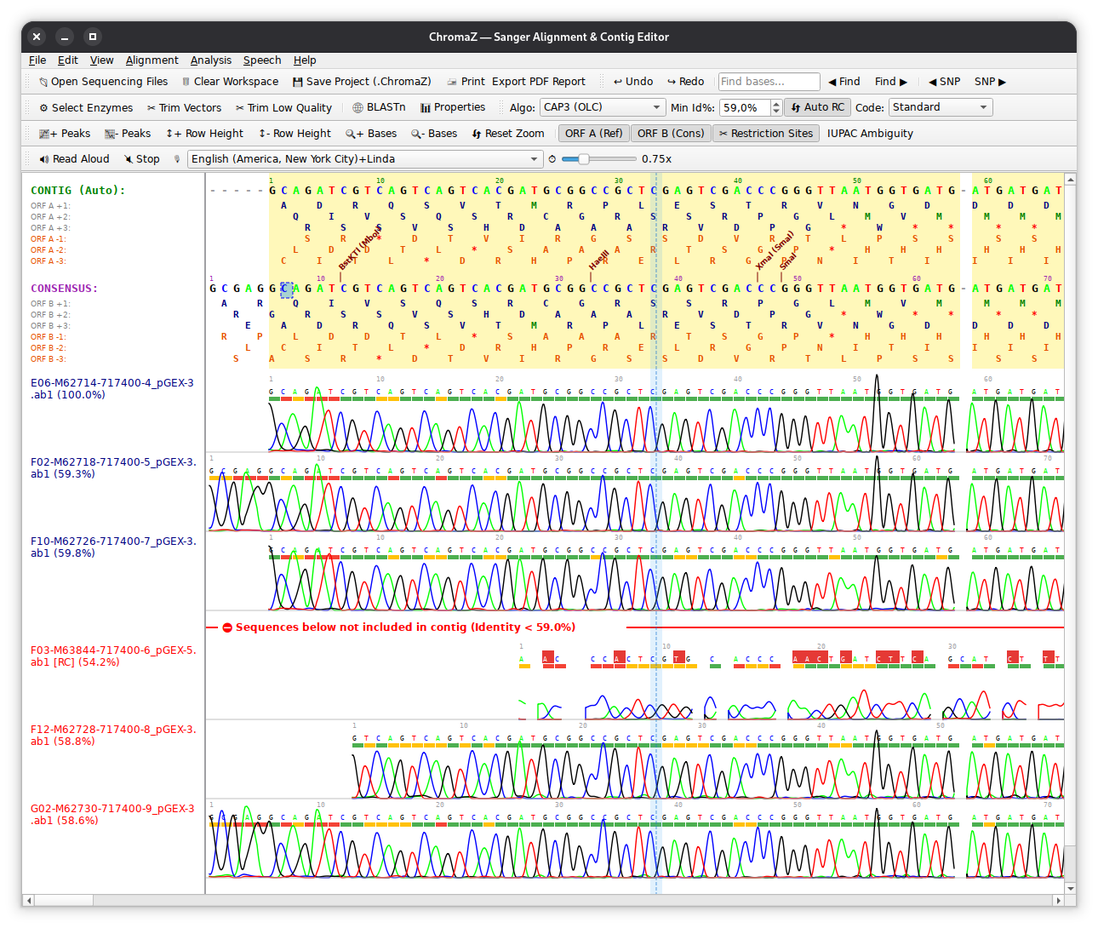
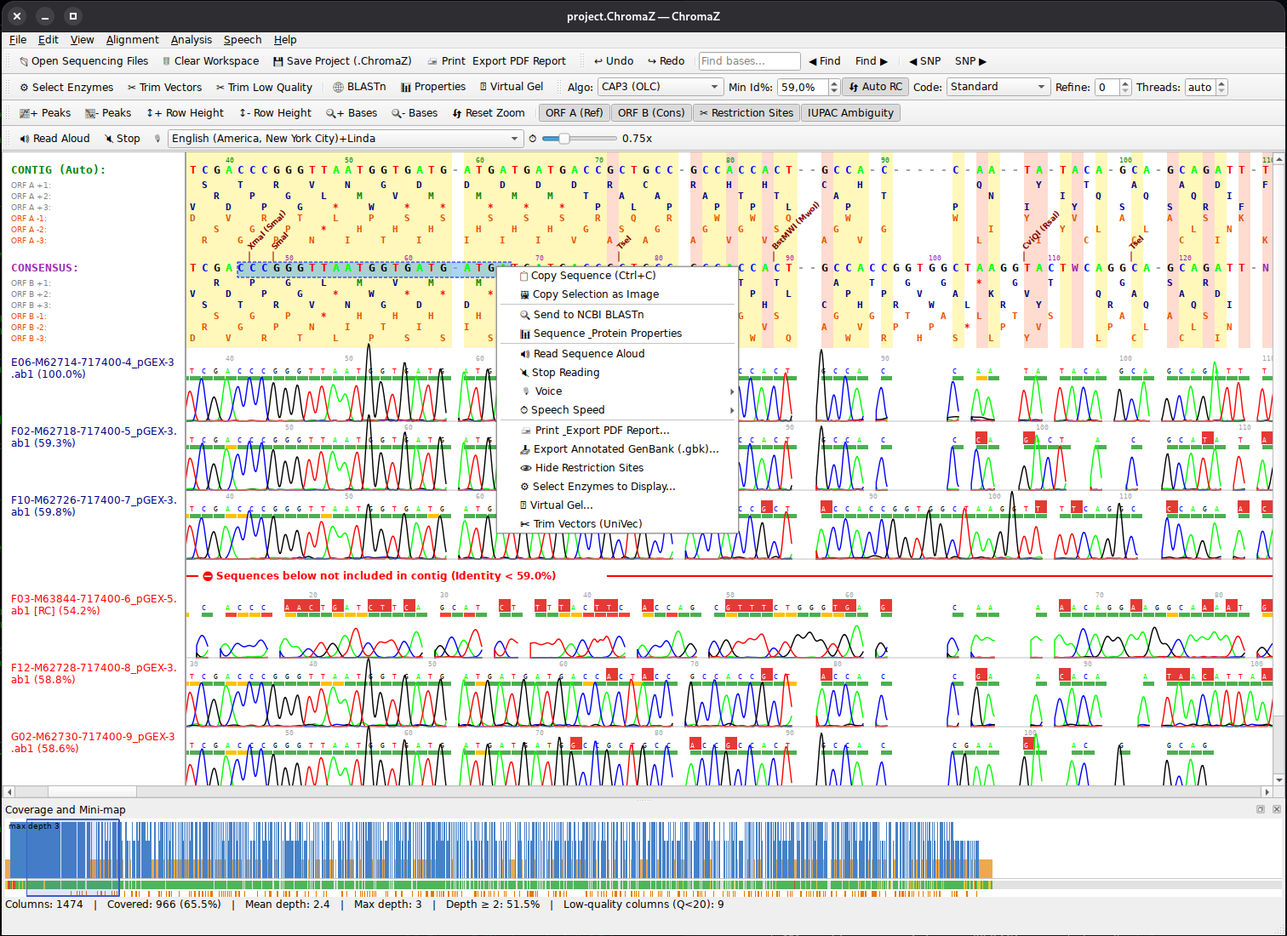
Release ChromaZ v1.0.2

diff --git a/README_RU.md b/README_RU.md
@@ -38,13 +38,16 @@
   * **BLAST (Seed & Extend)** — ускоренный поиск по $k$-мерам с расширением вдоль оптимальной диагонали.
   * **Banded DP** — полосовое динамическое программирование для длинных прочтений.
   * **Wavefront Alignment (WFA)** — пошаговое поволновое расширение фронта ошибок.
-  * **Internal Clustal-style** — встроенное попарное выравнивание с аффинными штрафами (Gotoh) каждого прочтения против контига/референса, объединяемое в множественное выравнивание (без внешних CLI-утилит).
+  * **Clustal-style прогрессивное MSA** — матрица расстояний по k-мерам → направляющее дерево UPGMA → попрофильное выравнивание всех ридов вместе с референсом (без внешних утилит).
 * **Автоматический контиг и референс**: Автоматический выбор затравки (seed) — самого длинного прочтения или загрузка собственного референсного FASTA/GenBank файла.
+* **Фоновое многопоточное выравнивание**: риды выравниваются параллельно на всех ядрах в рабочем потоке; интерфейс остаётся отзывчивым, есть индикатор прогресса и кнопка *Cancel*.
+* **Уточнение консенсуса**: необязательные раунды (*Refine* на панели) перевыравнивают все риды к консенсусу предыдущего раунда.
 * **Авто-ориентация цепей (Auto RC)**: Автоматическое определение и перевод комплементарных прочтений в прямую цепь (`[RC]`) с возможностью ручного переключения.
 
 ---
 
 ### 📈 Анализ хроматограмм и качество (Phred)
+* **Миникарта покрытия**: закрепляемая панель с глубиной покрытия вдоль контига, полосой качества Phred (зелёный/жёлтый/красный), отметками SNP и видимой областью; клик или перетаскивание — навигация. Статистика: покрытые колонки, средняя/максимальная глубина, низкокачественные колонки.
 * **Четырехцветный график хроматограмм**: Отрисовка пиков Sanger-следов (A — зеленый, C — синий, G — черный/желтый, T — красный) для файлов `.ab1` и `.scf`.
 * **Phred Quality Scores**: Цветовая индикация качества каждого нуклеотида (зеленый $Q \ge 30$, желтый $Q \ge 20$, красный $Q < 20$).
 * **Авто-тримминг по качеству (Trim Low QC)**: Удаление низкокачественных флангов на основе Phred-оценок с настраиваемым порогом.
@@ -55,6 +58,7 @@
 ### ✂ Рестрикционный анализ и векторный тримминг
 * **Интеграция базы данных REBASE**: Поддержка коммерческой базы эндонуклеаз рестрикции REBASE (`bionetc.txt`, около 800 ферментов) с автоматическим скачиванием при сборке и резервным чтением из ресурсов Qt.
 * **Выбор ферментов**: фильтруемый список ферментов для отображения (выбор запоминается между запусками); сайты нескольких ферментов в одной позиции объединяются в одну подпись.
+* **Виртуальный гель**: *Analysis → Virtual Gel…* моделирует агарозный гель консенсуса после рестрикции выбранными ферментами (линейная или кольцевая молекула, дорожка без рестрикции, маркер длин, таблица фрагментов, экспорт PNG). Ферменты, отмеченные в *Select Enzymes to Display*, выбираются по умолчанию.
 * **Визуализация сайтов гидролиза**: Отрисовка засечек разреза и названий ферментов над консенсусом с поддержкой вырожденных IUPAC-символов и ферментов типа IIS со смещенным разрезом (например, BsaI).
 * **Векторный тримминг по UniVec**: Быстрое удаление векторных остатков, праймеров и адаптеров (M13, T7, SP6 и др.) с концов прочтений в один клик.
 
@@ -67,7 +71,7 @@
 ---
 
 ### 🔬 Молекулярно-биологические и ПЦР утилиты
-* **Расчет температуры плавления ($T_m$) для ПЦР**: Расчет $T_m$ и GC-состава выделенного участка (правило Уоллеса для < 14 нт, базовая GC-формула для более длинных олигонуклеотидов); отображается в окне *Properties*.
+* **Расчет температуры плавления ($T_m$) для ПЦР**: окно *Properties* сразу показывает GC-состав, $T_m$ по правилу Уоллеса и по GC-формуле; после ввода концентраций Na⁺/Mg²⁺ и праймера добавляется $T_m$ по методу ближайших соседей (SantaLucia 1998) с ΔH, ΔS и ΔG.
 * **Отправка в NCBI BLASTn в один клик**: Мгновенный запуск поиска гомологии в веб-сервисе NCBI BLAST прямо из контекстного меню программы.
 * **Физико-химические графики и свойства белка**:
   * **GC-профиль**: Интерактивный график доли GC в скользящем окне вдоль последовательности.
@@ -91,7 +95,8 @@
 * **Полный Undo / Redo**: История отмены и повтора действий (`Ctrl+Z` / `Ctrl+Y` или `Ctrl+Shift+Z`) до 100 шагов.
 * **SNP Навигация**: Автоматическое нахождение полиморфизмов (SNP) и быстрый переход по кнопкам `◀ SNP` / `SNP ▶`.
 * **Быстрый поиск**: Поиск подстрок нуклеотидов с подсветкой и автоматической прокруткой; поле поиска на панели с кнопками *Find ◀ / ▶*.
-* **Удалённые основания**: при удалении основание остаётся пустым слотом (его можно вернуть вводом буквы) до следующего перевыравнивания или тримминга, который фиксирует удаление.
+* **Удалённые основания**: удалённое основание (вместе с данными хроматограммы и качества) остаётся в риде, показывается пустым слотом, возвращается вводом буквы и сохраняется при перевыравнивании (колонка-гэп добавляется только при необходимости). Окончательно основания удаляются лишь тримингом концов.
+* **Недавние файлы и автосохранение**: *File → Open Recent*; сессия автосохраняется каждые 2 минуты и восстанавливается после сбоя; при выходе подтверждаются несохранённые изменения.
 * **Сохранение настроек**: раскладка окна, алгоритм, порог идентичности, генетический код, переключатели ORF/рестрикции/IUPAC и параметры озвучки восстанавливаются при запуске.
 * **Очистка рабочей области**: сброс всех загруженных треков в один клик.
 * **Drag & Drop**: Изменение порядка треков мышью и перетаскивание файлов прямо в окно программы.
@@ -137,6 +142,42 @@
 | **Колесо мыши** | Масштабирование по оси X (ширина оснований) |
 | **Правый клик мыши** | Меню: BLASTn, свойства и графики (вкл. $T_m$), диктовка TTS, экспорт, выбор ферментов |
 
+## ⌨ Параметры командной строки
+
+```
+ChromaZ [параметры] [файлы...]
+```
+Файлы и параметры применяются сразу после запуска (справка также в программе: **Help → Command-line options…**).
+
+| Параметр | Описание |
+| :--- | :--- |
+| `файлы...` | Файлы секвенирования (`.ab1 .scf .fasta .fa .gb .gbk .fastq .fq .txt`) и/или проект `.ChromaZ` |
+| `-p, --project <файл>` | Открыть проект `.ChromaZ` |
+| `-r, --reference <файл>` | Взять первую запись FASTA/GenBank как референс |
+| `-a, --algorithm <имя>` | `cap3` (по умолчанию), `gotoh`, `nw`, `sw`, `blast`, `banded`, `wfa`, `clustal` (прогрессивное MSA) или `0`–`7` |
+| `-i, --min-identity <процент>` | Минимальная идентичность рида для включения в контиг (по умолчанию 45) |
+| `-t, --table <имя>` | Генетический код: `standard`, `mito`, `bacterial` (или `0`–`2`) |
+| `--no-auto-rc` | Отключить автоопределение обратного комплемента |
+| `--iupac` | IUPAC-коды в консенсусе |
+| `--refine <n>` | Раундов уточнения консенсуса (0–10, по умолчанию 0) |
+| `--threads <n>` | Потоки выравнивания (0 = автоматически) |
+| `--no-orf-a`, `--no-orf-b` | Скрыть 6 рамок считывания референса / консенсуса |
+| `--restriction` | Показать сайты рестрикции |
+| `--trim-quality <phred>` | Обрезать концы ридов низкого качества после выравнивания |
+| `--trim-vectors` | Обрезать векторные последовательности и праймеры с концов ридов |
+| `--export-fasta`, `--export-gbk`, `--export-png`, `--export-pdf <файл>` | Записать консенсус / вид / отчёт |
+| `--pdf-bases <n>` | Нуклеотидов на строку в PDF (по умолчанию 60) |
+| `--save-project <файл>` | Сохранить итоговый проект |
+| `--quit` | Выйти после выполнения шагов (пакетный режим; без дисплея используйте `QT_QPA_PLATFORM=offscreen`) |
+| `-h, --help`, `-v, --version` | Справка / версия |
+
+Параметры командной строки не меняют сохранённые настройки. Примеры:
+```bash
+ChromaZ read1.ab1 read2.ab1 --algorithm clustal --refine 2
+ChromaZ -p sample.ChromaZ --export-fasta consensus.fasta --quit
+ChromaZ reads/*.ab1 -r plasmid.gb --trim-quality 20 --trim-vectors --export-pdf report.pdf --quit
+```
+
 ---
 
 ## 🛠 Сборка и компиляция
@@ -154,6 +195,14 @@ cmake -B build -S src -DCMAKE_BUILD_TYPE=Release
 cmake --build build -j$(nproc)
 ./build/ChromaZ
 ```
+
+### Тесты и подписанные релизы (CI)
+* Модульные тесты (`ctest`) запускаются в Linux, Windows и macOS при каждом push и pull request: разбор SCF v2/v3 и GenBank, выравнивание (включая сохранение удалённых оснований), прогрессивное MSA, уточнение консенсуса, расчёты Tm и виртуального геля.
+* Релиз создаётся один раз после успешной сборки всех трёх платформ вместе с `SHA256SUMS.txt`.
+* Установщики подписываются автоматически, если заданы секреты репозитория (иначе собираются неподписанные):
+  * **Windows** — `WIN_CERT_PFX_BASE64` (base64 сертификата подписи кода `.pfx`), `WIN_CERT_PASSWORD`
+  * **macOS** — `MACOS_CERT_P12_BASE64` (сертификат Developer ID Application, base64 `.p12`), `MACOS_CERT_PASSWORD`, `MACOS_SIGN_IDENTITY` (например, `Developer ID Application: Name (TEAMID)`)
+  * **Нотаризация macOS** — `APPLE_ID`, `APPLE_TEAM_ID`, `APPLE_APP_PASSWORD` (пароль приложения); DMG нотаризуется и «степлится».
 
 ---
 

diff --git a/README.md b/README.md
@@ -38,13 +38,16 @@ Pre-compiled standalone installers are available on the [Releases](https://githu
   * **BLAST (Seed & Extend)** — Accelerated $k$-mer search with extension along the optimal diagonal.
   * **Banded DP** — Banded dynamic programming for long reads.
   * **Wavefront Alignment (WFA)** — Stepwise wavefront error-expansion algorithm.
-  * **Internal Clustal-style** — Built-in affine-gap (Gotoh) pairwise alignment of each read against the contig/reference, merged into a multiple alignment (no external CLI dependencies).
+  * **Clustal-style progressive MSA** — k-mer distance matrix → UPGMA guide tree → profile-to-profile alignment of all reads together with the reference (no external tools).
 * **Auto-Contig & Reference Support**: Automatic seed selection (the longest read), or custom reference sequence loading (FASTA/GenBank).
+* **Background, multi-threaded alignment**: reads are aligned in parallel on all CPU cores in a worker thread; the UI stays responsive, with a progress bar and a *Cancel* button.
+* **Consensus refinement**: optional rounds (*Refine* in the toolbar) re-align all reads to the consensus built in the previous round.
 * **Reverse Complement Detection (Auto RC)**: Automatic strand orientation and alignment for complementary reads (`[RC]`) with manual toggle option.
 
 ---
 
 ### 📈 Chromatogram Analysis & Phred Quality Scores
+* **Coverage Mini-map**: a dockable panel with read depth along the contig, a Phred-quality strip (green/yellow/red), SNP ticks and the visible region; click or drag to navigate. Statistics: covered columns, mean/max depth, low-quality columns.
 * **Four-Color Chromatogram Plot**: Trace visualization for Sanger sequencing files (`.ab1` and `.scf`) using standard base colors (A — green, C — blue, G — black/yellow, T — red).
 * **Phred Quality Scores**: Color-coded quality visualization per base (Green $Q \ge 30$, Yellow $Q \ge 20$, Red $Q < 20$).
 * **Quality Trimming (Trim Low QC)**: Automated low-quality end-trimming based on Phred thresholds.
@@ -55,6 +58,7 @@ Pre-compiled standalone installers are available on the [Releases](https://githu
 ### ✂ Restriction Analysis & Vector Trimming
 * **REBASE Database Integration**: Built-in support for the commercial REBASE restriction enzyme database (`bionetc.txt` with ~800 enzymes) with automatic build-time retrieval and fallback to Qt resources.
 * **Enzyme Selection**: Choose which enzymes are displayed (filterable checklist, choice is remembered between sessions); sites of several enzymes at one position are merged into a single label.
+* **Virtual Gel**: *Analysis → Virtual Gel…* simulates an agarose gel of the consensus digested with the chosen enzymes (linear or circular, optional undigested lane, DNA ladder, fragment table, PNG export). Enzymes ticked in *Select Enzymes to Display* are preselected.
 * **Cleavage Site Visualization**: Real-time rendering of restriction cut positions with enzyme labels angled above the consensus track, supporting degenerate IUPAC recognition sites and Type IIS shifted cutters (e.g., BsaI).
 * **UniVec Vector Trimming**: 1-click trimming of cloning vector backbones, sequencing primers, and adapters (M13, T7, SP6, etc.) from read ends using fuzzy pattern matching.
 
@@ -67,7 +71,7 @@ Pre-compiled standalone installers are available on the [Releases](https://githu
 ---
 
 ### 🔬 Molecular Biology & PCR Utilities
-* **PCR Primer Melting Temperature ($T_m$)**: Estimation of $T_m$ and GC% for the selected segment (Wallace rule for < 14 nt, basic GC-content formula for longer oligos); shown in the *Properties* window.
+* **PCR Primer Melting Temperature ($T_m$)**: The *Properties* window shows GC%, the Wallace-rule and GC-formula $T_m$ immediately; after entering Na⁺/Mg²⁺ and primer concentrations it adds the nearest-neighbor $T_m$ (SantaLucia 1998) with ΔH, ΔS and ΔG.
 * **1-Click NCBI BLASTn**: Send selected sequences or consensus directly to NCBI BLAST in your default web browser with query parameters pre-filled.
 * **Physicochemical Properties & Protein Graphs**:
   * **GC Profile**: Interactive sliding-window curve of GC content across selected regions.
@@ -91,7 +95,8 @@ Pre-compiled standalone installers are available on the [Releases](https://githu
 * **Full Undo / Redo**: Multi-step history stack (`Ctrl+Z` / `Ctrl+Y` or `Ctrl+Shift+Z`) up to 100 actions.
 * **SNP Navigation**: Single Nucleotide Polymorphism detection with quick jumping controls (`◀ SNP` / `SNP ▶`).
 * **Fast Sequence Search**: Substring match highlighting with automatic viewport auto-scrolling; toolbar search box with *Find ◀ / ▶*.
-* **Deleted Bases**: Deleting a base keeps its slot (shown blank, can be restored by typing a letter) until the next re-alignment or trimming, which commits the deletion.
+* **Deleted Bases**: Deleting a base keeps it (and its trace/quality data) in the read: it is shown as a blank slot, can be restored by typing a letter, and survives re-alignment (the alignment inserts a gap column only if needed). Bases are removed for good only by end trimming.
+* **Recent Files & Autosave**: *File → Open Recent*; the session is autosaved every 2 minutes and can be restored after a crash; unsaved changes are confirmed on exit.
 * **Persistent Settings**: Window layout, algorithm, identity threshold, genetic code, ORF/restriction/IUPAC toggles and speech settings are restored on start.
 * **Clear Workspace**: One-click reset of all loaded tracks.
 * **Drag & Drop**: Track reordering via drag-and-drop and direct file loading onto the viewer.
@@ -137,6 +142,42 @@ Pre-compiled standalone installers are available on the [Releases](https://githu
 | **Mouse Wheel** | Zoom X-axis (Base horizontal spacing) |
 | **Right Click Menu** | BLASTn, properties & graphs (incl. $T_m$), TTS readout, GenBank export, enzyme selection |
 
+## ⌨ Command-Line Options
+
+```
+ChromaZ [options] [files...]
+```
+Files and options are applied right after start-up (also available in the app: **Help → Command-line options…**).
+
+| Option | Description |
+| :--- | :--- |
+| `files...` | Sequencing files (`.ab1 .scf .fasta .fa .gb .gbk .fastq .fq .txt`) and/or a `.ChromaZ` project |
+| `-p, --project <file>` | Open a `.ChromaZ` project |
+| `-r, --reference <file>` | Use the first record of a FASTA/GenBank file as the reference |
+| `-a, --algorithm <name>` | `cap3` (default), `gotoh`, `nw`, `sw`, `blast`, `banded`, `wfa`, `clustal` (progressive MSA), or `0`–`7` |
+| `-i, --min-identity <percent>` | Minimum identity for a read to join the contig (default 45) |
+| `-t, --table <name>` | Genetic code: `standard`, `mito`, `bacterial` (or `0`–`2`) |
+| `--no-auto-rc` | Disable automatic reverse-complement detection |
+| `--iupac` | IUPAC ambiguity codes in the consensus |
+| `--refine <n>` | Consensus refinement rounds (0–10, default 0) |
+| `--threads <n>` | Alignment threads (0 = automatic) |
+| `--no-orf-a`, `--no-orf-b` | Hide the 6-frame translation of the reference / consensus |
+| `--restriction` | Show restriction sites |
+| `--trim-quality <phred>` | Trim low-quality read ends after alignment |
+| `--trim-vectors` | Trim vector / primer sequences from read ends |
+| `--export-fasta`, `--export-gbk`, `--export-png`, `--export-pdf <file>` | Write the consensus / view / report |
+| `--pdf-bases <n>` | Bases per line in the PDF report (default 60) |
+| `--save-project <file>` | Save the resulting workspace |
+| `--quit` | Exit after the requested steps (batch mode; use `QT_QPA_PLATFORM=offscreen` without a display) |
+| `-h, --help`, `-v, --version` | Help / version |
+
+Options given on the command line do not change the saved settings. Examples:
+```bash
+ChromaZ read1.ab1 read2.ab1 --algorithm clustal --refine 2
+ChromaZ -p sample.ChromaZ --export-fasta consensus.fasta --quit
+ChromaZ reads/*.ab1 -r plasmid.gb --trim-quality 20 --trim-vectors --export-pdf report.pdf --quit
+```
+
 ---
 
 ## 🛠 Building & Compilation
@@ -154,6 +195,14 @@ cmake -B build -S src -DCMAKE_BUILD_TYPE=Release
 cmake --build build -j$(nproc)
 ./build/ChromaZ
 ```
+
+### Tests and signed releases (CI)
+* Unit tests (`ctest`) run on Linux, Windows and macOS for every push and pull request. They cover SCF v2/v3 and GenBank parsing, alignment (including preservation of deleted bases), progressive MSA, consensus refinement, Tm and virtual-gel calculations.
+* Releases are created once, after all three platforms build successfully, with a `SHA256SUMS.txt`.
+* Installers are signed automatically when these repository secrets exist (otherwise unsigned installers are built):
+  * **Windows** — `WIN_CERT_PFX_BASE64` (base64 of the `.pfx` code-signing certificate), `WIN_CERT_PASSWORD`
+  * **macOS** — `MACOS_CERT_P12_BASE64` (Developer ID Application certificate, base64 `.p12`), `MACOS_CERT_PASSWORD`, `MACOS_SIGN_IDENTITY` (e.g. `Developer ID Application: Name (TEAMID)`)
+  * **macOS notarization** — `APPLE_ID`, `APPLE_TEAM_ID`, `APPLE_APP_PASSWORD` (app-specific password); the DMG is then notarized and stapled.
 
 ---
 
